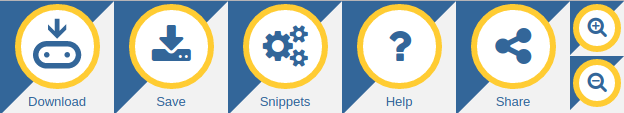
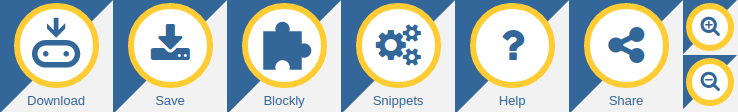
Update documentation in light of recent changes.

diff --git a/help.html b/help.html
@@ -46,6 +46,7 @@
           <ul class="nav navbar-nav">
             <li><a href="#top">Start Here</a></li>
             <li><a href="#hello">Hello, World!</a></li>
+            <li><a href="#blockly">Blockly</a></li>
             <li><a href="#snippets">Snippets</a></li>
             <li><a href="#bugs">Bug Fixes</a></li>
             <li><a href="#fun">Fun Stuff</a></li>
@@ -108,6 +109,19 @@
             downloading random software from the internet. But since this is
             your own code you're safe to proceed. See below for how to load
             code back into the editor.
+            </td>
+        </tr>
+        <tr>
+            <td>
+                <img src="static/img/block_button.png" alt="Blockly button"/>
+            </td>
+            <td>
+            Clicking the "Blockly" button displays a set of drag-and-drop
+            blocks that can be used to quickly create Python code. Move the
+            blocks, watch Python code appear and change. <strong>Moving such
+            blocks will re-write your Python code and you may lose work.
+            Furthermore, the arrangement of blocks is currently not saved,
+            just the resulting Python code.</strong>
             </td>
         </tr>
         <tr>
@@ -219,6 +233,34 @@ display.scroll("Hello, World!")</code></pre>
     <p>Can you make it scroll any other messages? Why not try making your
     BBC micro:bit scroll your name? Remember, MicroPython will scroll
     everything between the <code>"</code>quotation marks<code>"</code>.</p>
+
+    <h2 id="blockly">Blockly</h2>
+
+    <p>Use blockly to make new Python code from easy to assemble blocks of
+    code.</p>
+
+    <p><img src="static/img/blocks.png"
+        class="img-responsive center-block img-rounded"
+        alt="An animation demonstrating how to use snippets."/></p>
+
+    <p>Blockly updates Python in the code editor as you move blocks around.
+    There are lots of different blocks to cover all the features of the
+    micro:bit. You can make more advanced code by combining blocks together
+    (such as in the example above).</p>
+
+    <p>You should use Blockly to create <em>new code</em> since moving blocks
+    around will overwrite any existing code you have in the editor (and you may
+    lose work as a result). The arrangement of blocks isn't (currently)
+    saved, so Blockly makes a great way to make simple Python code without
+    lots of typing. In the end, you'll learn that simply typing Python is by
+    far the quickest and easiest way to write code.</p>
+
+    <p>Not all the features of the micro:bit or MicroPython are available via
+    Blockly. We've done this on purpose. Some of the more advanced and
+    interesting stuff is only available in pure Python.</p>
+
+    <p>However, by using Blockly you'll very quickly get the hang of how Python
+    code works and fits together.</p>
 
     <h2 id="snippets">Snippets</h2>
 

diff --git a/README.rst b/README.rst
@@ -11,6 +11,12 @@ Developer Setup
 
 This editor works with any modern web browser.
 
+To grab the GIT submodules you should issue the following command::
+
+    git submodule update --init --recursive
+
+**THIS NEEDS TO BE DONE BEFORE ANYTHING ELSE WILL WORK.**
+
 Assuming you have Python 3 installed you can serve the editor like this::
 
     $ ./show.sh
@@ -43,14 +49,21 @@ Code
 ++++
 
 * ace - a directory containing the Ace editor (http://ace.c9.io).
+* blockly - a GIT sub-module containing Google's blockly project.
+* CHANGELOG - a record of how things have changed between versions.
+* CONTRIBUTING.rst - a guide for people who want to contribute (you should!).
 * editor.html - the page to be loaded by your browser.
 * firmware.hex - copy of the "vanilla" MicroPython firmware used by the editor.
 * help.html - a single page user facing help page.
+* LICENSE - a copy of the MIT software license that covers this code.
+* microbit_blocks - a GIT sub-module containing custom MicroPython blocks.
 * python-main.js - the JavaScript code for running the editor.
+* README.rst - this file, the clue is in the name. ;-)
 * tests.html - the browser based test runner.
 * show.sh - a script that allows you to serve the editor from localhost. Requires Python 3.
 * static - contains css, js and img sub-directories.
 * tests - contains the Python specific test suite.
+* tests.html - point your browser at this file to run the tests.
 
 Contributing
 ++++++++++++
@@ -81,16 +94,21 @@ name and comment. Please note that all query string arguments must be correctly
 URL encoded - this especially applies to code. Use the "share" button in the
 editor to generate and share such URLs with appended query strings.
 
-The layout and functionality is deliberately simple. The four buttons at the
+The layout and functionality is deliberately simple. The buttons at the
 top left, act as follows:
 
-* Download - creates a .hex file locally in the user's browser and prompts the user to download it. The resulting file should be copied over to the micro:bit device just like when using all the other editors. The filename will be the name of the script with spaces replaced by "_" and ending in .py. So "extraordinary script" is saved as extraordinary_script.py.
+* Download - creates a .hex file locally in the user's browser and prompts the user to download it. The resulting file should be copied over to the micro:bit device just like when using all the other editors. The filename will be the name of the script with spaces replaced by "_" and ending in .hex. So "extraordinary script" is saved as extraordinary_script.hex.
+* Save - download a copy of the Python source code. The filename will be the name of the script with spaces replaced by "_" and ending in .py.
+* Blockly - arrange visual blocks to quickly create Python code. Moving such blocks will re-write your Python code and you may lose work. Furthermore, the arrangement of blocks is currently not saved, just the resulting Python code as described above.
 * Snippets - allow user's to write code from pre-defined Python fragments (functions, loops, if...else etc). They are triggered by typing a keyword followed by TAB. For example, type "wh" followed by TAB to insert a while... loop. Clicking on the code snippets button opens up a modal dialog window containing instructions and a table of the available snippets along with their trigger and a short and simple description.
 * Help - opens a single page in a new tab that contains user-facing help.
 * Share - generate a short URL for the script. Share this with others. This button will be missing if run from the local file system.
 
-Directly next to the four large buttons are two smaller icons. The zoom in and
+Directly next to the large buttons are two smaller icons. The zoom in and
 zoom out buttons that make it easy for teachers to display code via a projector.
+
+If you have a Python script or hex file on your local computer, you can load it
+into the editor by dragging it onto the text area.
 
 If you plug in your micro:bit and want to get the REPL you'll need to install
 pyserial and run the following command with the appropriate permissions (such
@@ -114,6 +132,13 @@ relatively small when you consider:
 * Compression is built into the server
 * The web has caching built in (we should trust it)
 * We actually want kids to view source and find the .hex file in as raw a form as possible.
+
+Configuration
+-------------
+
+To launch the editor you'll need to pass in a ``config`` JavaScript object
+containing translation strings and feature flags. Take a look in the
+``editor.html`` file to see how this is done.
 
 Documentation
 -------------
